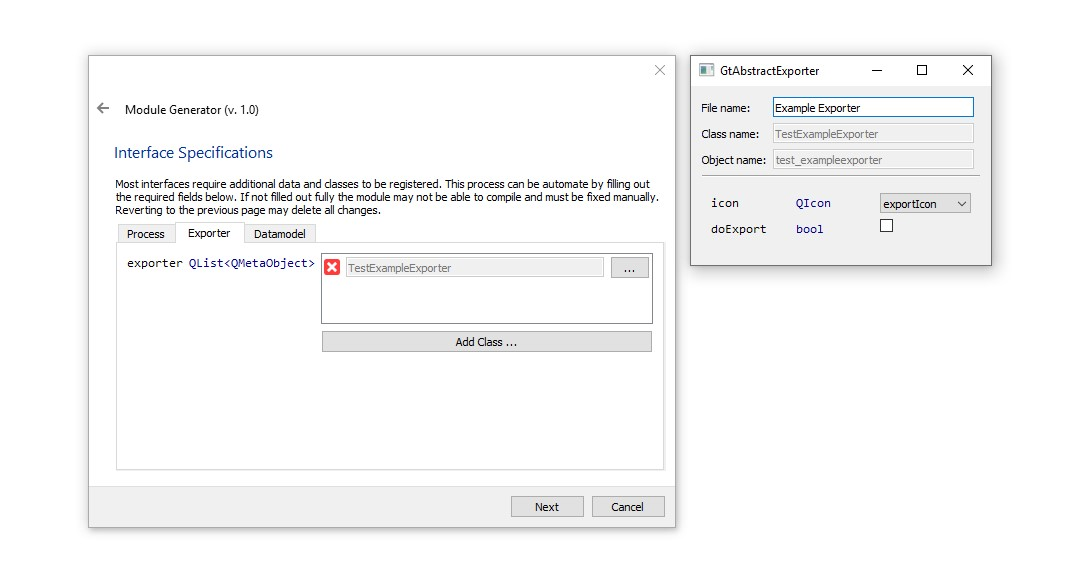
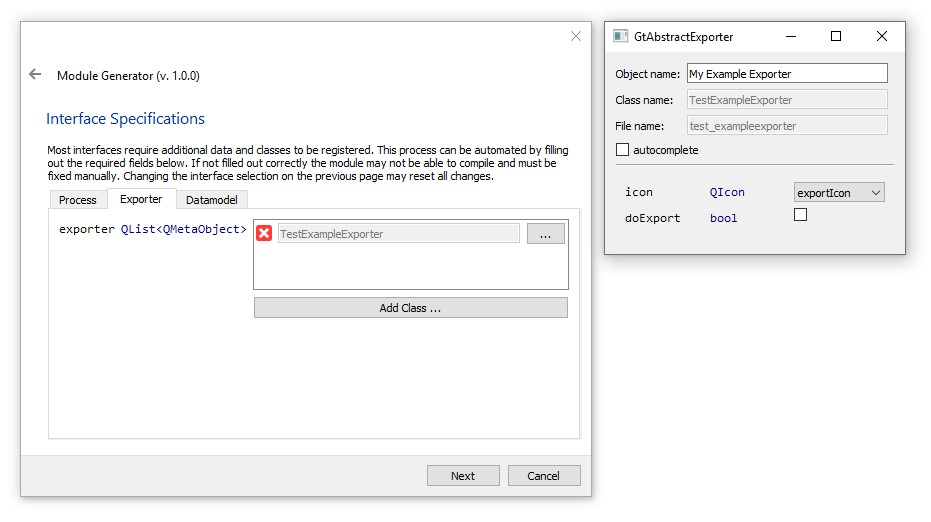
changed version to 1.0.0, added autocomplete check boxes for file and class names

Changed region(s): [[0.0311, 0.0307, 0.9968, 0.9808]]

diff --git a/src/widgets/class_specification/class_specification_widget.cpp b/src/widgets/class_specification/class_specification_widget.cpp
@@ -9,6 +9,7 @@
 #include <QLineEdit>
 #include <QFrame>
 #include <QRegularExpressionValidator>
+#include <QCheckBox>
 
 const QString S_CLASS_NAME_LABEL =
         QStringLiteral("Class name:");
@@ -16,9 +17,13 @@ const QString S_FILE_NAME_LABEL =
         QStringLiteral("File name:");
 const QString S_OBJECT_NAME_LABEL =
         QStringLiteral("Object name:");
+const QString S_AUTO_COMPLETE_LABEL =
+        QStringLiteral("autocomplete");
 
 const QString S_AUTO_GENERATED_TOOLTIP =
         QStringLiteral("autogenerated using the object name");
+const QString S_AUTO_GENERATED_ALT_TOOLTIP =
+        QStringLiteral("this value is locked and can not be edited directly");
 
 ClassSpecificationWidget::ClassSpecificationWidget(const FunctionStruct& function,
                                                    ModuleGeneratorSettings* settings,
@@ -38,11 +43,10 @@ ClassSpecificationWidget::ClassSpecificationWidget(const FunctionStruct& functio
     m_classNameEdit = new QLineEdit();
     m_objectNameEdit = new QLineEdit();
     m_fileNameEdit = new QLineEdit();
+    m_autoEditCheckBox = new QCheckBox(S_AUTO_COMPLETE_LABEL);
 
     m_classNameEdit->setEnabled(false);
-    m_classNameEdit->setToolTip(S_AUTO_GENERATED_TOOLTIP);
     m_fileNameEdit->setEnabled(false);
-    m_fileNameEdit->setToolTip(S_AUTO_GENERATED_TOOLTIP);
 
     m_baseLayout->addWidget(m_objectNamelabel, 0, 0);
     m_baseLayout->addWidget(m_objectNameEdit, 0, 1);
@@ -50,6 +54,7 @@ ClassSpecificationWidget::ClassSpecificationWidget(const FunctionStruct& functio
     m_baseLayout->addWidget(m_classNameEdit, 1, 1);
     m_baseLayout->addWidget(m_fileNameLabel, 2, 0);
     m_baseLayout->addWidget(m_fileNameEdit, 2, 1);
+    m_baseLayout->addWidget(m_autoEditCheckBox, 3, 0, 1, 2);
 
     m_objectNameEdit->setValidator(m_nameValidator);
 
@@ -76,20 +81,26 @@ ClassSpecificationWidget::ClassSpecificationWidget(const FunctionStruct& functio
             line->setFrameShape(QFrame::HLine);
             line->setFrameShadow(QFrame::Sunken);
 
-            m_baseLayout->addWidget(line, 3, 0, 1, 3);
-            m_baseLayout->addWidget(m_functionSpecificationWidget, 4, 0, 1, 3);
+            m_baseLayout->addWidget(line, 4, 0, 1, 3);
+            m_baseLayout->addWidget(m_functionSpecificationWidget, 5, 0, 1, 3);
         }
     }
 
     auto* spacer = new QSpacerItem(1, 1, QSizePolicy::Minimum, QSizePolicy::MinimumExpanding);
 
-    m_baseLayout->addItem(spacer, 5, 0, 1, 3);
+    m_baseLayout->addItem(spacer, 6, 0, 1, 3);
 
     setLayout(m_baseLayout);
 
     // signals
     connect(m_objectNameEdit, SIGNAL(textChanged(QString)),
             this, SLOT(onEditedObjectName(QString)));
+    connect(m_autoEditCheckBox, SIGNAL(stateChanged(int)),
+            this, SLOT(onAutoCompleteChanged(int)));
+
+    // defaults
+    m_autoEditCheckBox->setChecked(true);
+    onAutoCompleteChanged(true);
 }
 
 ClassStruct
@@ -108,6 +119,25 @@ ClassSpecificationWidget::implementedClass()
 }
 
 void
+ClassSpecificationWidget::autoComplete()
+{
+    if (!m_autoEditCheckBox->isChecked())
+    {
+        m_fileNameEdit->setToolTip(S_AUTO_GENERATED_ALT_TOOLTIP);
+        m_classNameEdit->setToolTip(S_AUTO_GENERATED_ALT_TOOLTIP);
+        return;
+    }
+
+    QString objectName = m_objectNameEdit->text();
+
+    m_fileNameEdit->setText(m_settings->fileNamingScheme(objectName));
+    m_classNameEdit->setText(m_settings->classNamingScheme(objectName));
+
+    m_fileNameEdit->setToolTip(S_AUTO_GENERATED_TOOLTIP);
+    m_classNameEdit->setToolTip(S_AUTO_GENERATED_TOOLTIP);
+}
+
+void
 ClassSpecificationWidget::closeEvent(QCloseEvent* event)
 {
     event->accept();
@@ -118,6 +148,11 @@ ClassSpecificationWidget::closeEvent(QCloseEvent* event)
 void
 ClassSpecificationWidget::onEditedObjectName(QString name)
 {
-    m_fileNameEdit->setText(m_settings->fileNamingScheme(name));
-    m_classNameEdit->setText(m_settings->classNamingScheme(name));
+    autoComplete();
+}
+
+void
+ClassSpecificationWidget::onAutoCompleteChanged(int state)
+{
+    autoComplete();
 }

diff --git a/src/wizard/module_specifications_page.cpp b/src/wizard/module_specifications_page.cpp
@@ -31,10 +31,12 @@ const QString S_MODULE_VERSION_LABEL =
 const QString S_MODULE_DESCRIPTION_LABEL =
         QStringLiteral("Module description:");
 const QString S_AUTO_COMPLETE_LABEL =
-        QStringLiteral("autocomplete description");
+        QStringLiteral("autocomplete description, class and file name");
 
 const QString S_AUTO_GENERATED_TOOLTIP =
         QStringLiteral("autogenerated using the module name");
+const QString S_AUTO_GENERATED_ALT_TOOLTIP =
+        QStringLiteral("this value is locked and can not be edited directly");
 
 /*
  * constructor
@@ -79,9 +81,7 @@ ModuleSpecificationsPage::ModuleSpecificationsPage(ModuleGeneratorSettings* sett
     m_versionEdit->setValidator(m_versionValidator);
 
     m_fileNameEdit->setEnabled(false);
-    m_fileNameEdit->setToolTip(S_AUTO_GENERATED_TOOLTIP);
     m_classNameEdit->setEnabled(false);
-    m_classNameEdit->setToolTip(S_AUTO_GENERATED_TOOLTIP);
 
     m_baseLayout->addWidget(m_infoTextLabel, 0, 0, 1, 2);
     m_baseLayout->addWidget(m_modulePrefixLabel, 1, 0);
@@ -206,24 +206,34 @@ ModuleSpecificationsPage::validatePage()
 void
 ModuleSpecificationsPage::autoComplete()
 {
+    if (!m_autoEditCheckBox->isChecked())
+    {
+        m_fileNameEdit->setToolTip(S_AUTO_GENERATED_ALT_TOOLTIP);
+        m_classNameEdit->setToolTip(S_AUTO_GENERATED_ALT_TOOLTIP);
+
+        return;
+    }
+
     QString moduleName = m_moduleNameEdit->text();
     QString prefix     = m_modulePrefixEdit->text();
 
-    m_fileNameEdit->setText(settings()->fileNamingScheme(moduleName, prefix));
-    m_classNameEdit->setText(settings()->classNamingScheme(moduleName, prefix));
+    m_fileNameEdit->setText(settings()->fileNamingScheme(moduleName,
+                                                         prefix));
+    m_classNameEdit->setText(settings()->classNamingScheme(moduleName,
+                                                           prefix));
 
-    if (m_autoEditCheckBox->isChecked())
+    m_fileNameEdit->setToolTip(S_AUTO_GENERATED_TOOLTIP);
+    m_classNameEdit->setToolTip(S_AUTO_GENERATED_TOOLTIP);
+
+    QString desc(moduleName);
+
+    if (!prefix.isEmpty())
     {
-        QString desc(moduleName);
-
-        if (!prefix.isEmpty())
-        {
-            prefix.replace(0, 1, prefix.at(0).toUpper());
-            desc.prepend(prefix + QChar(' '));
-        }
-
-        m_descriptionEdit->setText(desc.simplified());
+        prefix.replace(0, 1, prefix.at(0).toUpper());
+        desc.prepend(prefix + QChar(' '));
     }
+
+    m_descriptionEdit->setText(desc.simplified());
 }
 
 /*
@@ -262,6 +272,8 @@ ModuleSpecificationsPage::onAutoCompleteChanged(int state)
     bool active = state > 0;
 
     m_descriptionEdit->setEnabled(!active);
+//    m_classNameEdit->setEnabled(!active);
+//    m_fileNameEdit->setEnabled(!active);
 
     autoComplete();
 }

diff --git a/src/widgets/class_specification/class_specification_widget.h b/src/widgets/class_specification/class_specification_widget.h
@@ -9,6 +9,7 @@ class QGridLayout;
 class QPushButton;
 class QLineEdit;
 class QLabel;
+class QCheckBox;
 class FunctionSpecificationWidget;
 class ModuleGeneratorSettings;
 class QRegularExpressionValidator;
@@ -35,7 +36,8 @@ private:
     QLineEdit* m_objectNameEdit;
     QLabel* m_objectNamelabel;
     QLineEdit* m_fileNameEdit;
-    QLabel* m_fileNameLabel;
+    QLabel* m_fileNameLabel;    
+    QCheckBox* m_autoEditCheckBox;
 
     /// module name validator
     QRegularExpressionValidator* m_nameValidator;
@@ -44,6 +46,7 @@ private:
 
     QGridLayout* m_baseLayout;
 
+    void autoComplete();
 
 protected:
 
@@ -52,6 +55,8 @@ protected:
 private slots:
 
     void onEditedObjectName(QString string);
+
+    void onAutoCompleteChanged(int state);
 
 signals:
 

diff --git a/src/settings/module_generator_settings.cpp b/src/settings/module_generator_settings.cpp
@@ -16,7 +16,7 @@
 #include <QFont>
 
 const QString
-    ModuleGeneratorSettings::S_VERSION(QStringLiteral("1.0"));
+    ModuleGeneratorSettings::S_VERSION(QStringLiteral("1.0.0"));
 const QRegularExpression
     ModuleGeneratorSettings::REG_PREFIX(QStringLiteral("[A-Za-z]([A-Za-z]|\\d)*"));
 const QRegularExpression

diff --git a/CHANGELOG.md b/CHANGELOG.md
@@ -1,0 +1,18 @@
+# Changelog
+All notable changes to this project will be documented in this file.
+
+The format is based on [Keep a Changelog](https://keepachangelog.com/en/1.0.0/),
+and this project adheres to [Semantic Versioning](https://semver.org/spec/v2.0.0.html).
+
+## [Unreleased]
+
+## [1.0.0] - 2021-06-21
+## Added
+- Support for GTlab v1.7.x
+- Support for all core interfaces
+- Modular class generation
+
+## Changed
+- Refactored the main GUI layout
+- Enhanced the module generation process
+- Autocompletion for file and class name can be toggled

diff --git a/README.md b/README.md
@@ -21,7 +21,7 @@ This tool generates a basic module for GTlab (v1.7)
 3. **Module Specifications**:
     * define an optional prefix for all file and class names
     * enter the name of the module to generate
-    * file and class name are auto generated using the module name
+    * file and class name are auto generated using the module name, but their values can be locked
     * set the desired module description 
 
 </p>
